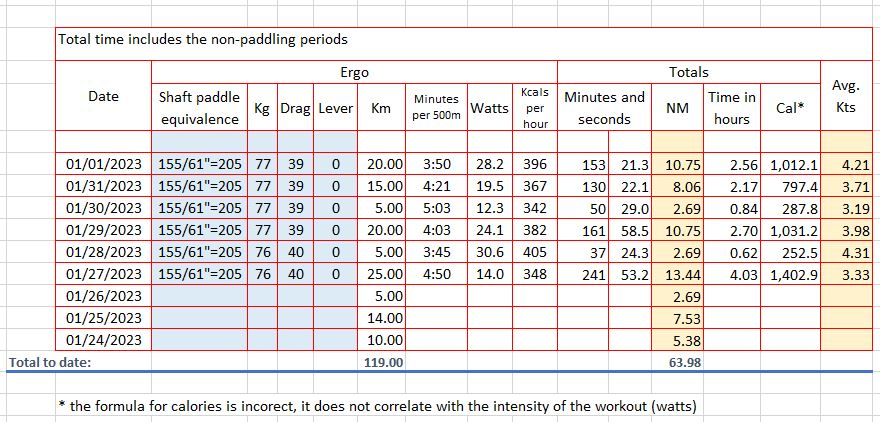
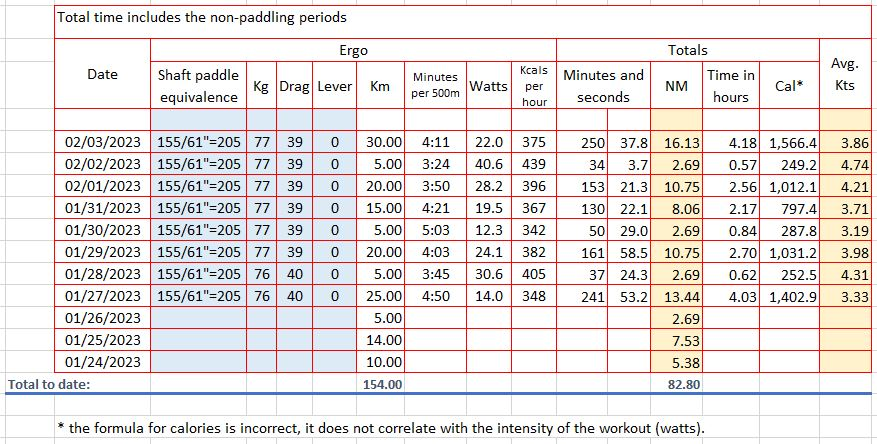
updates

diff --git a/dry-run/log/index.html b/dry-run/log/index.html
@@ -211,11 +211,16 @@ $(document).ready(function(){
 
 
     <br> <div class="text-justify"><blockquote>
-<p>February 1, 2023</p>
+<p>February 3, 2023</p>
 </blockquote>
-<p><img src="/img/feb1.JPG" alt="February 1">
+<p><img src="/img/feb3.JPG" alt="February 3">
 <div style="text-align: center">
-64 nautical miles, or 119 Km
+82.8 nautical miles, or 154 Km
+</div>
+</p>
+<p><img src="/img/Stats.JPG" alt="Stats">
+<div style="text-align: center">
+Stats
 </div>
 </p>
 <p><a href="https://www.kayakpro.com/xeon/">Xeon</a> is a heavy-use Kayak Ergometer, that gives a true feel of on-the-water paddling.</p>
@@ -224,12 +229,10 @@ $(document).ready(function(){
 Equivalent paddle length for Xeon
 </div>
 </p>
-<p><img src="/img/Stats.JPG" alt="Stats">
-<div style="text-align: center">
-Stats
-</div>
-</p>
-<p>_</p>
+<pre tabindex="0"><code>The correct way to manage fear is to gradually broaden your comfort zone until your comfort zone includes things that seemed previously impossible.
+
+Alex Honnold
+</code></pre><p>_</p>
 </div>
 
     
